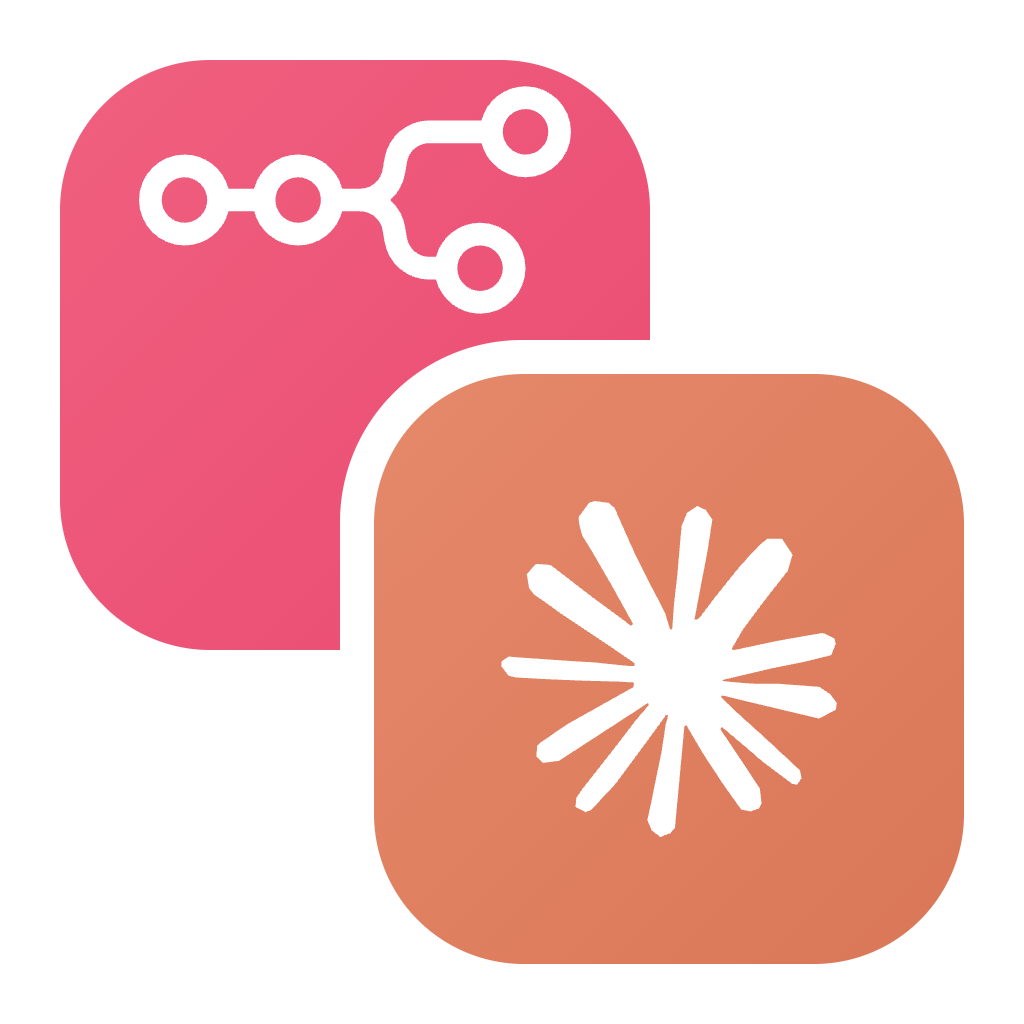
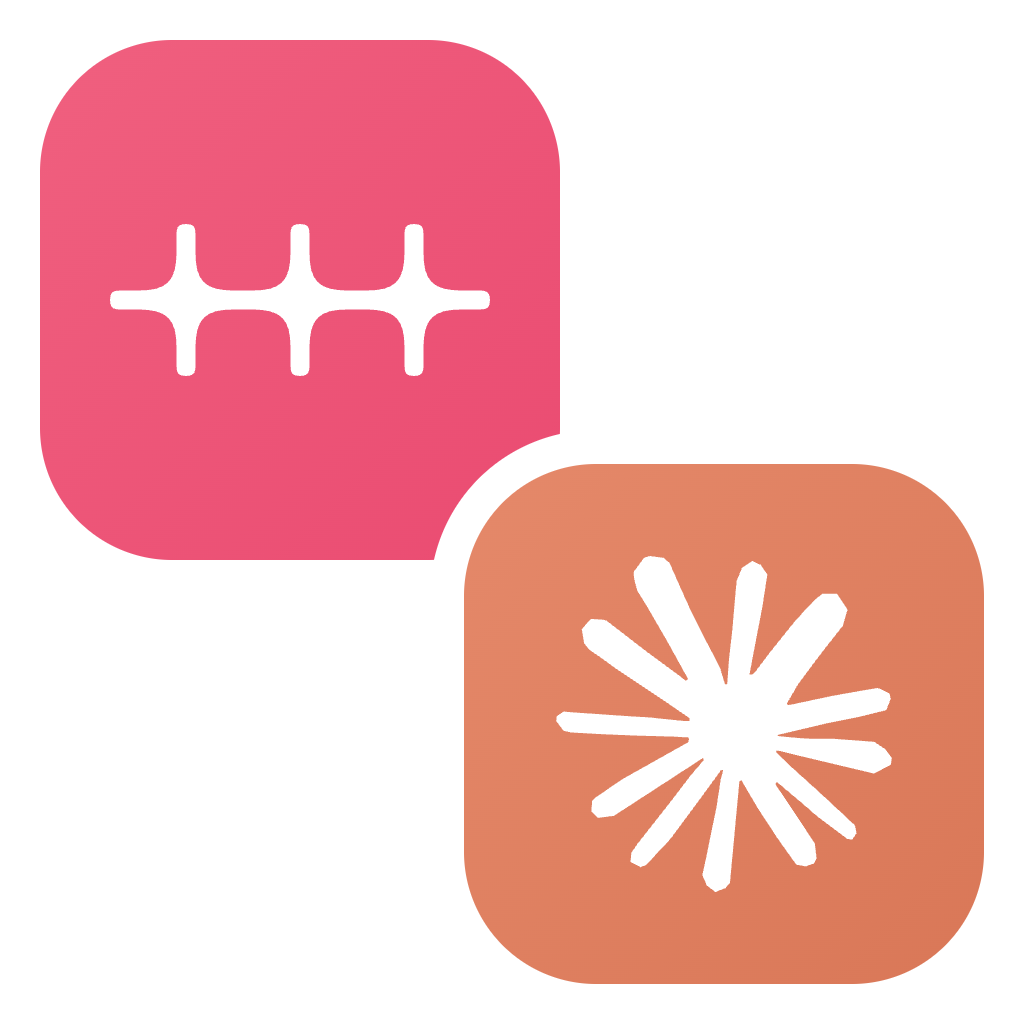
Smoother migration animation; n8n's current mark
assets/mapping.gif (0.40 MiB, 5 s, 25 fps): each n8n workflow's chip glides
along its row into its slot in Claude, turning from a white n8n node into its
filled Claude form on the way (smootherstep easing, no lines drawing, no
bounce); Lucide icons. The n8n mark is now n8n's current one, from its own
repository (assets/src/logos/SOURCE.md), in the GIF and centred in the icon's
pink tile; the tiles overlap only at the corner.

Changed region(s): [[0.0625, 0.0625, 0.9375, 0.9375], [0.5, 0.5, 0.9688, 0.9688], [0.0312, 0.0312, 0.5, 0.5]]

diff --git a/assets/src/mapping.html b/assets/src/mapping.html
@@ -1,140 +1,116 @@
 <!doctype html>
-<!-- Source of assets/mapping.gif (5 s loop): each kind of n8n workflow flies through n8n-to-claude to where it lands in
-     Claude. Frames are drawn by render(t) and assembled by assets/src/gif.mjs; the page also plays by itself.
+<!-- Source of assets/mapping.gif (5 s loop): each kind of n8n workflow migrates from n8n into its place in Claude. Frames
+     are drawn by render(t) and assembled by assets/src/gif.mjs; the page also plays by itself.
      The pairs are the analyzer's verdicts on popular templates of rank 1-100 (evals/bench/data/wf, 2026-11-18):
      schedule every 1 d -> cloud-task (Email summary agent); Gmail poll every 1 min -> local-task (Suggest meeting slots
      using AI); chat -> skill (AI agent chat); form -> artifact-form (Flux AI image generator); manual -> artifact
      (Joining different datasets); Telegram, outsiders wait -> hosted (Telegram AI chatbot); MCP server -> replaced
-     (Build an MCP server with Google Calendar and custom functions). The n8n and Claude marks: assets/src/logos/SOURCE.md;
-     the other icons are drawn here. -->
+     (Build an MCP server with Google Calendar and custom functions).
+     Icons: Lucide (ISC licence, lucide.dev); the n8n and Claude marks: assets/src/logos/SOURCE.md. -->
 <html>
 <head>
 <meta charset="utf-8">
 <style>
-@font-face { font-family: Mono; src: url(fonts/dm-mono-latin-500-normal.woff2); font-weight: 500; }
 @font-face { font-family: Sans; src: url(fonts/dm-sans-latin-500-normal.woff2); font-weight: 500; }
 @font-face { font-family: Display; src: url(fonts/space-grotesk-latin-600-normal.woff2); font-weight: 600; }
-:root { --text: #f4f4f5; --muted: #8b8b94; --n8n: #ea4b71; --claude: #d97757; }
 * { box-sizing: border-box; margin: 0; }
 body { background: #000; }
-#scene { position: relative; width: 960px; height: 540px; background: #07070a; color: var(--text); font-family: Sans; overflow: hidden; }
-.panel { position: absolute; top: 76px; width: 262px; height: 432px; border-radius: 22px; background: #0f0f13; border: 1px solid #222228; box-shadow: inset 0 1px 0 #2a2a31; }
-.panel.n8n { left: 28px; }
-.panel.n8n::after { content: ""; position: absolute; inset: 0; border-radius: 22px; background-image: radial-gradient(#26262c 1px, transparent 1.5px); background-size: 14px 14px; }
-.panel.claude { left: 670px; }
-.pill { position: absolute; top: 26px; height: 36px; padding: 0 15px 0 11px; border-radius: 999px; display: flex; align-items: center; gap: 9px; font-family: Display; font-size: 17px; background: #141418; border: 1px solid #26262c; }
-.pill svg { width: 23px; height: 23px; }
-.node { position: absolute; left: 46px; width: 226px; height: 48px; display: flex; align-items: center; justify-content: flex-end; gap: 12px; font-size: 14.5px; color: #e4e4e7; }
-.chip { width: 48px; height: 48px; border-radius: 13px; background: #f4f4f5; display: grid; place-items: center; position: relative; flex: none; }
-.chip svg { width: 25px; height: 25px; fill: none; stroke-width: 2; stroke-linecap: round; stroke-linejoin: round; }
-.handle { position: absolute; right: -6px; top: 18px; width: 12px; height: 12px; border-radius: 50%; background: #07070a; border: 2px solid #a1a1aa; }
-.tile { position: absolute; left: 688px; width: 226px; height: 48px; border-radius: 14px; display: flex; align-items: center; gap: 12px; padding: 0 10px 0 6px; background: #15151a; border: 1px solid #24242a; font-size: 14.5px; color: #a1a1aa; }
-.tile .sq { width: 36px; height: 36px; border-radius: 10px; display: grid; place-items: center; background: #1c1c21; flex: none; }
-.tile .sq svg { width: 20px; height: 20px; fill: none; stroke: #71717a; stroke-width: 2; stroke-linecap: round; stroke-linejoin: round; }
-.tile .badge { margin-left: auto; width: 20px; height: 20px; border-radius: 50%; display: grid; place-items: center; transform: scale(0); }
-.tile .badge svg { width: 12px; height: 12px; fill: none; stroke: #07070a; stroke-width: 3; stroke-linecap: round; stroke-linejoin: round; }
-#hubwrap { position: absolute; left: 432px; top: 248px; width: 96px; height: 96px; }
-#hub { width: 96px; height: 96px; border-radius: 24px; padding: 12px; background: #16161b; border: 1px solid #2a2a31; box-shadow: 0 0 0 6px #121216; }
-#hub img { width: 100%; height: 100%; display: block; }
-#fx { position: absolute; inset: 0; pointer-events: none; }
+#scene { position: relative; width: 960px; height: 540px; background: #08080b; color: #f4f4f5; font-family: Sans; overflow: hidden; }
+.panel { position: absolute; top: 84px; width: 300px; height: 430px; border-radius: 22px; background: #0f0f13; border: 1px solid #202026; }
+.pill { position: absolute; top: 26px; height: 38px; padding: 0 16px 0 12px; border-radius: 999px; display: flex; align-items: center; gap: 10px; font-family: Display; font-size: 18px; background: #141418; border: 1px solid #25252b; }
+#bridge { position: absolute; left: 444px; top: 22px; width: 72px; height: 46px; display: flex; align-items: center; justify-content: center; }
+#bridge img { width: 46px; height: 46px; }
+.track { position: absolute; height: 2px; background-image: linear-gradient(90deg, #26262c 50%, transparent 50%); background-size: 10px 2px; }
+.row { position: absolute; height: 52px; display: flex; align-items: center; gap: 14px; font-size: 15px; }
+.row.l { left: 40px; width: 240px; flex-direction: row-reverse; justify-content: flex-start; color: #d4d4d8; }
+.row.r { left: 682px; width: 240px; color: #71717a; }
+.chip { width: 52px; height: 52px; border-radius: 15px; display: grid; place-items: center; position: relative; flex: none; }
+.chip svg { width: 24px; height: 24px; fill: none; stroke-width: 2; stroke-linecap: round; stroke-linejoin: round; position: absolute; left: 50%; top: 50%; margin: -12px 0 0 -12px; }
+.n8nchip { background: #f4f4f5; }
+.slot { border: 1.5px dashed #34343c; }
+.slot svg { stroke: #4b4b54; }
+#movers .chip { position: absolute; z-index: 3; }
 </style>
 </head>
 <body>
 <div id="scene">
-  <div class="panel n8n"></div>
-  <div class="panel claude"></div>
-  <div class="pill" style="left:28px"><svg viewBox="0 0 24 24"><path fill="#EA4B71" d="M21.4737 5.6842c-1.1772 0-2.1663.8051-2.4468 1.8947h-2.8955c-1.235 0-2.289.893-2.492 2.111l-.1038.623a1.263 1.263 0 0 1-1.246 1.0555H11.289c-.2805-1.0896-1.2696-1.8947-2.4468-1.8947s-2.1663.8051-2.4467 1.8947H4.973c-.2805-1.0896-1.2696-1.8947-2.4468-1.8947C1.1311 9.4737 0 10.6047 0 12s1.131 2.5263 2.5263 2.5263c1.1772 0 2.1663-.8051 2.4468-1.8947h1.4223c.2804 1.0896 1.2696 1.8947 2.4467 1.8947 1.1772 0 2.1663-.8051 2.4468-1.8947h1.0008a1.263 1.263 0 0 1 1.2459 1.0555l.1038.623c.203 1.218 1.257 2.111 2.492 2.111h.3692c.2804 1.0895 1.2696 1.8947 2.4468 1.8947 1.3952 0 2.5263-1.131 2.5263-2.5263s-1.131-2.5263-2.5263-2.5263c-1.1772 0-2.1664.805-2.4468 1.8947h-.3692a1.263 1.263 0 0 1-1.246-1.0555l-.1037-.623A2.52 2.52 0 0 0 13.9607 12a2.52 2.52 0 0 0 .821-1.4794l.1038-.623a1.263 1.263 0 0 1 1.2459-1.0555h2.8955c.2805 1.0896 1.2696 1.8947 2.4468 1.8947 1.3952 0 2.5263-1.131 2.5263-2.5263s-1.131-2.5263-2.5263-2.5263m0 1.2632a1.263 1.263 0 0 1 1.2631 1.2631 1.263 1.263 0 0 1-1.2631 1.2632 1.263 1.263 0 0 1-1.2632-1.2632 1.263 1.263 0 0 1 1.2632-1.2631M2.5263 10.7368A1.263 1.263 0 0 1 3.7895 12a1.263 1.263 0 0 1-1.2632 1.2632A1.263 1.263 0 0 1 1.2632 12a1.263 1.263 0 0 1 1.2631-1.2632m6.3158 0A1.263 1.263 0 0 1 10.1053 12a1.263 1.263 0 0 1-1.2632 1.2632A1.263 1.263 0 0 1 7.579 12a1.263 1.263 0 0 1 1.2632-1.2632m10.1053 3.7895a1.263 1.263 0 0 1 1.2631 1.2632 1.263 1.263 0 0 1-1.2631 1.2631 1.263 1.263 0 0 1-1.2632-1.2631 1.263 1.263 0 0 1 1.2632-1.2632"/></svg>n8n</div>
-  <div class="pill" style="left:670px"><svg viewBox="0 0 24 24"><path fill="#D97757" d="m4.7144 15.9555 4.7174-2.6471.079-.2307-.079-.1275h-.2307l-.7893-.0486-2.6956-.0729-2.3375-.0971-2.2646-.1214-.5707-.1215-.5343-.7042.0546-.3522.4797-.3218.686.0608 1.5179.1032 2.2767.1578 1.6514.0972 2.4468.255h.3886l.0546-.1579-.1336-.0971-.1032-.0972L6.973 9.8356l-2.55-1.6879-1.3356-.9714-.7225-.4918-.3643-.4614-.1578-1.0078.6557-.7225.8803.0607.2246.0607.8925.686 1.9064 1.4754 2.4893 1.8336.3643.3035.1457-.1032.0182-.0728-.164-.2733-1.3539-2.4467-1.445-2.4893-.6435-1.032-.17-.6194c-.0607-.255-.1032-.4674-.1032-.7285L6.287.1335 6.6997 0l.9957.1336.419.3642.6192 1.4147 1.0018 2.2282 1.5543 3.0296.4553.8985.2429.8318.091.255h.1579v-.1457l.1275-1.706.2368-2.0947.2307-2.6957.0789-.7589.3764-.9107.7468-.4918.5828.2793.4797.686-.0668.4433-.2853 1.8517-.5586 2.9021-.3643 1.9429h.2125l.2429-.2429.9835-1.3053 1.6514-2.0643.7286-.8196.85-.9046.5464-.4311h1.0321l.759 1.1293-.34 1.1657-1.0625 1.3478-.8804 1.1414-1.2628 1.7-.7893 1.36.0729.1093.1882-.0183 2.8535-.607 1.5421-.2794 1.8396-.3157.8318.3886.091.3946-.3278.8075-1.967.4857-2.3072.4614-3.4364.8136-.0425.0304.0486.0607 1.5482.1457.6618.0364h1.621l3.0175.2247.7892.522.4736.6376-.079.4857-1.2142.6193-1.6393-.3886-3.825-.9107-1.3113-.3279h-.1822v.1093l1.0929 1.0686 2.0035 1.8092 2.5075 2.3314.1275.5768-.3218.4554-.34-.0486-2.2039-1.6575-.85-.7468-1.9246-1.621h-.1275v.17l.4432.6496 2.3436 3.5214.1214 1.0807-.17.3521-.6071.2125-.6679-.1214-1.3721-1.9246L14.38 17.959l-1.1414-1.9428-.1397.079-.674 7.2552-.3156.3703-.7286.2793-.6071-.4614-.3218-.7468.3218-1.4753.3886-1.9246.3157-1.53.2853-1.9004.17-.6314-.0121-.0425-.1397.0182-1.4328 1.9672-2.1796 2.9446-1.7243 1.8456-.4128.164-.7164-.3704.0667-.6618.4008-.5889 2.386-3.0357 1.4389-1.882.929-1.0868-.0062-.1579h-.0546l-6.3385 4.1164-1.1293.1457-.4857-.4554.0608-.7467.2307-.2429 1.9064-1.3114Z"/></svg>Claude</div>
-  <svg id="fx" width="960" height="540"><defs id="defs"></defs><g id="guides"></g><g id="lines"></g><g id="rings"></g><g id="comets"></g></svg>
-  <div id="hubwrap"><div id="hub"><img src="../icon.svg" alt=""></div></div>
-  <div id="nodes"></div>
-  <div id="tiles"></div>
+  <div class="panel" style="left:22px"></div>
+  <div class="panel" style="left:638px"></div>
+  <div class="pill" style="left:22px"><svg viewBox="0 0 240 96" width="34" height="14"><path fill="#EA4B71" d="M48 96C52.5 96 54 94.5 54 90V78C54 60 60 54 78 54H90C108 54 114 60 114 78V90C114 94.5 115.5 96 120 96C124.5 96 126 94.5 126 90V78C126 60 132 54 150 54H162C180 54 186 60 186 78V90C186 94.5 187.5 96 192 96C196.5 96 198 94.5 198 90V78C198 60 204 54 222 54H234C238.5 54 240 52.5 240 48C240 43.5 238.5 42 234 42H222C204 42 198 36 198 18V6C198 1.5 196.5 0 192 0C187.5 0 186 1.5 186 6V18C186 36 180 42 162 42H150C132 42 126 36 126 18V6C126 1.5 124.5 0 120 0C115.5 0 114 1.5 114 6V18C114 36 108 42 90 42H78C60 42 54 36 54 18V6C54 1.5 52.5 0 48 0C43.5 0 42 1.5 42 6V18C42 36 36 42 18 42H6C1.5 42 0 43.5 0 48C0 52.5 1.5 54 6 54H18C36 54 42 60 42 78V90C42 94.5 43.5 96 48 96Z"/></svg>n8n</div>
+  <div class="pill" style="left:638px"><svg viewBox="0 0 24 24" width="22" height="22"><path fill="#D97757" d="m4.7144 15.9555 4.7174-2.6471.079-.2307-.079-.1275h-.2307l-.7893-.0486-2.6956-.0729-2.3375-.0971-2.2646-.1214-.5707-.1215-.5343-.7042.0546-.3522.4797-.3218.686.0608 1.5179.1032 2.2767.1578 1.6514.0972 2.4468.255h.3886l.0546-.1579-.1336-.0971-.1032-.0972L6.973 9.8356l-2.55-1.6879-1.3356-.9714-.7225-.4918-.3643-.4614-.1578-1.0078.6557-.7225.8803.0607.2246.0607.8925.686 1.9064 1.4754 2.4893 1.8336.3643.3035.1457-.1032.0182-.0728-.164-.2733-1.3539-2.4467-1.445-2.4893-.6435-1.032-.17-.6194c-.0607-.255-.1032-.4674-.1032-.7285L6.287.1335 6.6997 0l.9957.1336.419.3642.6192 1.4147 1.0018 2.2282 1.5543 3.0296.4553.8985.2429.8318.091.255h.1579v-.1457l.1275-1.706.2368-2.0947.2307-2.6957.0789-.7589.3764-.9107.7468-.4918.5828.2793.4797.686-.0668.4433-.2853 1.8517-.5586 2.9021-.3643 1.9429h.2125l.2429-.2429.9835-1.3053 1.6514-2.0643.7286-.8196.85-.9046.5464-.4311h1.0321l.759 1.1293-.34 1.1657-1.0625 1.3478-.8804 1.1414-1.2628 1.7-.7893 1.36.0729.1093.1882-.0183 2.8535-.607 1.5421-.2794 1.8396-.3157.8318.3886.091.3946-.3278.8075-1.967.4857-2.3072.4614-3.4364.8136-.0425.0304.0486.0607 1.5482.1457.6618.0364h1.621l3.0175.2247.7892.522.4736.6376-.079.4857-1.2142.6193-1.6393-.3886-3.825-.9107-1.3113-.3279h-.1822v.1093l1.0929 1.0686 2.0035 1.8092 2.5075 2.3314.1275.5768-.3218.4554-.34-.0486-2.2039-1.6575-.85-.7468-1.9246-1.621h-.1275v.17l.4432.6496 2.3436 3.5214.1214 1.0807-.17.3521-.6071.2125-.6679-.1214-1.3721-1.9246L14.38 17.959l-1.1414-1.9428-.1397.079-.674 7.2552-.3156.3703-.7286.2793-.6071-.4614-.3218-.7468.3218-1.4753.3886-1.9246.3157-1.53.2853-1.9004.17-.6314-.0121-.0425-.1397.0182-1.4328 1.9672-2.1796 2.9446-1.7243 1.8456-.4128.164-.7164-.3704.0667-.6618.4008-.5889 2.386-3.0357 1.4389-1.882.929-1.0868-.0062-.1579h-.0546l-6.3385 4.1164-1.1293.1457-.4857-.4554.0608-.7467.2307-.2429 1.9064-1.3114Z"/></svg>Claude</div>
+  <div id="bridge"><img src="../icon.svg" alt=""></div>
+  <div id="tracks"></div>
+  <div id="left"></div>
+  <div id="right"></div>
+  <div id="movers"></div>
 </div>
 <script>
-const I = {
-  clock: '<circle cx="12" cy="12" r="9"/><path d="M12 7v5l3 2"/>',
-  mail: '<rect x="3" y="5" width="18" height="14" rx="2.5"/><path d="M3.5 7l8.5 6 8.5-6"/>',
-  chat: '<path d="M4 6a2 2 0 0 1 2-2h12a2 2 0 0 1 2 2v8a2 2 0 0 1-2 2H9l-5 4z"/>',
-  form: '<rect x="4" y="3" width="16" height="18" rx="2.5"/><path d="M8 8h8M8 12h8M8 16h5"/>',
-  play: '<circle cx="12" cy="12" r="9"/><path d="M10 8.5l5 3.5-5 3.5z"/>',
-  send: '<path d="M21 3L3 10.5l7 2.5 2.5 7z"/><path d="M10 13l11-10"/>',
-  plug: '<path d="M9 3v5M15 3v5M6 8h12v3a6 6 0 0 1-12 0zM12 17v4"/>',
-  cloud: '<path d="M7 18a4.5 4.5 0 0 1-.5-9A6 6 0 0 1 18 9.5a4 4 0 0 1-1 8.5z"/>',
-  monitor: '<rect x="3" y="4" width="18" height="12" rx="2"/><path d="M9 20h6M12 16v4"/>',
-  spark: '<path d="M12 3l2 5.5L19.5 10 14 12l-2 6-2-6-5.5-2L10 8.5z"/>',
-  page: '<rect x="3" y="4" width="18" height="16" rx="2"/><path d="M3 9h18M7 13h4M7 16h7"/>',
-  bars: '<rect x="3" y="4" width="18" height="16" rx="2"/><path d="M8 16v-4M12 16V8M16 16v-6"/>',
-  server: '<rect x="4" y="4" width="16" height="6" rx="1.5"/><rect x="4" y="14" width="16" height="6" rx="1.5"/><path d="M8 7h.01M8 17h.01"/>',
-  link: '<path d="M10 14a4 4 0 0 0 5.6 0l3-3a4 4 0 0 0-5.6-5.6l-1 1M14 10a4 4 0 0 0-5.6 0l-3 3a4 4 0 0 0 5.6 5.6l1-1"/>',
-  check: '<path d="M5 12.5l4.5 4.5L19 7.5"/>',
+const L = {
+  clock: '<circle cx="12" cy="12" r="10"/><polyline points="12 6 12 12 16 14"/>',
+  mail: '<rect width="20" height="16" x="2" y="4" rx="2"/><path d="m22 7-8.97 5.7a1.94 1.94 0 0 1-2.06 0L2 7"/>',
+  chat: '<path d="M7.9 20A9 9 0 1 0 4 16.1L2 22Z"/>',
+  form: '<path d="M15 2H6a2 2 0 0 0-2 2v16a2 2 0 0 0 2 2h12a2 2 0 0 0 2-2V7Z"/><path d="M14 2v4a2 2 0 0 0 2 2h4"/><path d="M16 13H8"/><path d="M16 17H8"/><path d="M10 9H8"/>',
+  play: '<circle cx="12" cy="12" r="10"/><polygon points="10 8 16 12 10 16 10 8"/>',
+  send: '<path d="m22 2-7 20-4-9-9-4Z"/><path d="M22 2 11 13"/>',
+  plug: '<path d="M12 22v-5"/><path d="M9 8V2"/><path d="M15 8V2"/><path d="M18 8v5a4 4 0 0 1-4 4h-4a4 4 0 0 1-4-4V8Z"/>',
+  cloud: '<path d="M17.5 19H9a7 7 0 1 1 6.71-9h1.79a4.5 4.5 0 1 1 0 9Z"/>',
+  monitor: '<rect width="20" height="14" x="2" y="3" rx="2"/><line x1="8" x2="16" y1="21" y2="21"/><line x1="12" x2="12" y1="17" y2="21"/>',
+  sparkles: '<path d="M9.94 15.5A2 2 0 0 0 8.5 14.06l-6.14-1.58a.5.5 0 0 1 0-.96L8.5 9.94A2 2 0 0 0 9.94 8.5l1.58-6.14a.5.5 0 0 1 .96 0L14.06 8.5A2 2 0 0 0 15.5 9.94l6.14 1.58a.5.5 0 0 1 0 .96L15.5 14.06a2 2 0 0 0-1.44 1.44l-1.58 6.14a.5.5 0 0 1-.96 0z"/>',
+  window: '<rect x="2" y="4" width="20" height="16" rx="2"/><path d="M2 9h20"/><path d="M7 13h5"/><path d="M7 16h8"/>',
+  chart: '<path d="M3 3v16a2 2 0 0 0 2 2h16"/><path d="M18 17V9"/><path d="M13 17V5"/><path d="M8 17v-3"/>',
+  server: '<rect width="20" height="8" x="2" y="2" rx="2"/><rect width="20" height="8" x="2" y="14" rx="2"/><line x1="6" x2="6.01" y1="6" y2="6"/><line x1="6" x2="6.01" y1="18" y2="18"/>',
+  link: '<path d="M10 13a5 5 0 0 0 7.54.54l3-3a5 5 0 0 0-7.07-7.07l-1.72 1.71"/><path d="M14 11a5 5 0 0 0-7.54-.54l-3 3a5 5 0 0 0 7.07 7.07l1.71-1.71"/>',
 };
-// from: [icon, label, glyph colour]; to: [icon, label]; tone: verdict colour.
 const ROWS = [
-  { from: ["clock", "Schedule", "#f97316"], to: ["cloud", "Cloud task"], tone: "ok" },
-  { from: ["mail", "Gmail poll", "#ef4444"], to: ["monitor", "Desktop task"], tone: "ok" },
-  { from: ["chat", "Chat", "#8b5cf6"], to: ["spark", "Skill"], tone: "ok" },
-  { from: ["form", "Form", "#14b8a6"], to: ["page", "Artifact form"], tone: "ok" },
-  { from: ["play", "Manual run", "#52525b"], to: ["bars", "Run now page"], tone: "ok" },
-  { from: ["send", "Telegram bot", "#0ea5e9"], to: ["server", "Needs hosting"], tone: "warn" },
-  { from: ["plug", "MCP server", "#6366f1"], to: ["link", "Connectors"], tone: "info" },
+  { from: ["clock", "Schedule", [249, 115, 22]], to: ["cloud", "Cloud task"], tone: "ok" },
+  { from: ["mail", "Gmail poll", [239, 68, 68]], to: ["monitor", "Desktop task"], tone: "ok" },
+  { from: ["chat", "Chat", [139, 92, 246]], to: ["sparkles", "Skill"], tone: "ok" },
+  { from: ["form", "Form", [20, 184, 166]], to: ["window", "Artifact form"], tone: "ok" },
+  { from: ["play", "Manual run", [82, 82, 91]], to: ["chart", "Run now page"], tone: "ok" },
+  { from: ["send", "Telegram bot", [14, 165, 233]], to: ["server", "Needs hosting"], tone: "warn" },
+  { from: ["plug", "MCP server", [99, 102, 241]], to: ["link", "Connectors"], tone: "info" },
 ];
-const C = { ok: [52, 211, 153], warn: [251, 191, 36], info: [96, 165, 250] };
-const N8N = [234, 75, 113];
+const TONE = { ok: [16, 185, 129], warn: [245, 158, 11], info: [59, 130, 246] };
+const WHITE = [244, 244, 245];
 const rgb = (c, a = 1) => `rgb(${c[0]} ${c[1]} ${c[2]} / ${a})`;
-const Y = (i) => 112 + i * 56, HX = 480, HY = 296, X1 = 278, X2 = 688;
-const icon = (k, stroke) => `<svg viewBox="0 0 24 24" style="${stroke ? `stroke:${stroke}` : ""}">${I[k]}</svg>`;
-document.getElementById("nodes").innerHTML = ROWS.map((r, i) => `<div class="node" style="top:${Y(i)}px">${r.from[1]}<div class="chip">${icon(r.from[0], r.from[2])}<i class="handle"></i></div></div>`).join("");
-document.getElementById("tiles").innerHTML = ROWS.map((r, i) => `<div class="tile" id="t${i}" style="top:${Y(i)}px"><div class="sq">${icon(r.to[0])}</div><span>${r.to[1]}</span><div class="badge" style="background:${rgb(C[r.tone])}">${r.tone === "warn" ? '<b style="color:#07070a;font:700 13px/1 Sans">!</b>' : icon("check")}</div></div>`).join("");
-const d = (i) => { const y = Y(i) + 24; return `M${X1} ${y} C ${375} ${y}, ${395} ${HY}, ${HX} ${HY} C ${565} ${HY}, ${590} ${y}, ${X2} ${y}`; };
-const ns = "http://www.w3.org/2000/svg";
-document.getElementById("defs").innerHTML = ROWS.map((r, i) => `<linearGradient id="g${i}" gradientUnits="userSpaceOnUse" x1="${X1}" y1="0" x2="${X2}" y2="0"><stop offset="0" stop-color="${rgb(N8N)}"/><stop offset="0.5" stop-color="#e8e8ef"/><stop offset="1" stop-color="${rgb(C[r.tone])}"/></linearGradient>`).join("");
-document.getElementById("guides").innerHTML = ROWS.map((_, i) => `<path d="${d(i)}" fill="none" stroke="rgb(255 255 255 / 0.07)" stroke-width="1.5" stroke-dasharray="3 5"/>`).join("");
-document.getElementById("lines").innerHTML = ROWS.map((_, i) => `<path id="p${i}" d="${d(i)}" fill="none" stroke="url(#g${i})" stroke-width="2.4" stroke-linecap="round"/>`).join("");
-const TAIL = 16;
-document.getElementById("comets").innerHTML = ROWS.map((r, i) => Array.from({ length: TAIL }, (_, j) => `<circle id="c${i}_${j}" r="${6 - j * 0.32}" fill="${j === 0 ? "#ffffff" : rgb(C[r.tone], 0.8 - j * 0.048)}"/>`).join("")).join("");
-document.getElementById("rings").innerHTML = ROWS.map((r, i) => `<circle id="hr${i}" cx="${HX}" cy="${HY}" fill="none" stroke-width="2"/><circle id="lr${i}" cx="${X2 + 24}" cy="${Y(i) + 24}" fill="none" stroke-width="2"/>`).join("");
-const LEN = ROWS.map((_, i) => document.getElementById(`p${i}`).getTotalLength());
+const mix = (a, b, k) => a.map((v, i) => Math.round(v + (b[i] - v) * k));
+const svg = (k, stroke, op = 1) => `<svg viewBox="0 0 24 24" style="stroke:${stroke};opacity:${op}">${L[k]}</svg>`;
+const Y = (i) => 108 + i * 57, LCX = 228, RCX = 682;
+document.getElementById("tracks").innerHTML = ROWS.map((_, i) => `<div class="track" style="left:${LCX + 64}px;width:${RCX - LCX - 76}px;top:${Y(i) + 25}px"></div>`).join("");
+document.getElementById("left").innerHTML = ROWS.map((r, i) => `<div class="row l" style="top:${Y(i)}px"><div class="chip n8nchip" id="lc${i}">${svg(r.from[0], rgb(r.from[2]))}</div><span id="ll${i}">${r.from[1]}</span></div>`).join("");
+document.getElementById("right").innerHTML = ROWS.map((r, i) => `<div class="row r" style="top:${Y(i)}px"><div class="chip slot" id="rc${i}">${svg(r.to[0], "#4b4b54")}</div><span id="rl${i}">${r.to[1]}</span></div>`).join("");
+document.getElementById("movers").innerHTML = ROWS.map((r, i) => `<div class="chip" id="m${i}"><span class="a">${svg(r.from[0], rgb(r.from[2]))}</span><span class="b">${svg(r.to[0], "#ffffff", 0)}</span></div>`).join("");
 
-const DURATION = 5, START = 0.25, GAP = 0.28, FLY = 0.95, FADE_AT = 4.5;
+const DURATION = 5, START = 0.35, GAP = 0.3, TRAVEL = 1.5, BACK = 4.45;
 const clamp = (x) => Math.max(0, Math.min(1, x));
-const easeIO = (x) => (x < 0.5 ? 4 * x * x * x : 1 - Math.pow(-2 * x + 2, 3) / 2);
-const back = (x) => { const c = 2.2; return 1 + (c + 1) * Math.pow(x - 1, 3) + c * Math.pow(x - 1, 2); };
+const smooth = (x) => x * x * x * (x * (x * 6 - 15) + 10); // smootherstep: no overshoot, no jerk
 window.render = (t) => {
-  const out = clamp((t - FADE_AT) / (DURATION - FADE_AT));
-  let pulse = 0;
+  const back = smooth(clamp((t - BACK) / (DURATION - BACK))); // quietly return to the start for the loop
   ROWS.forEach((r, i) => {
-    const s = START + i * GAP, k = clamp((t - s) / FLY), e = easeIO(k);
-    const p = document.getElementById(`p${i}`);
-    p.style.strokeDasharray = LEN[i];
-    p.style.strokeDashoffset = LEN[i] * (1 - e);
-    p.style.opacity = (k > 0 ? 0.85 : 0) * (1 - out);
-    const flying = k > 0 && k < 1;
-    for (let j = 0; j < TAIL; j++) {
-      const c = document.getElementById(`c${i}_${j}`);
-      const at = e - j * 0.0075;
-      if (!flying || at <= 0) { c.style.display = "none"; continue; }
-      const pt = p.getPointAtLength(LEN[i] * at);
-      c.style.display = ""; c.setAttribute("cx", pt.x); c.setAttribute("cy", pt.y);
+    const k = clamp((t - START - i * GAP) / TRAVEL), e = smooth(k);
+    const m = document.getElementById(`m${i}`), lc = document.getElementById(`lc${i}`), rc = document.getElementById(`rc${i}`);
+    const ll = document.getElementById(`ll${i}`), rl = document.getElementById(`rl${i}`);
+    const arrived = k >= 1;
+    // the travelling chip: glides on a shallow arc and turns from its n8n form into its Claude form on the way
+    const flying = k > 0 && !arrived;
+    m.style.display = flying ? "grid" : "none";
+    if (flying) {
+      const x = LCX + (RCX - LCX) * e, y = Y(i) - Math.sin(Math.PI * e) * 14;
+      m.style.left = `${x}px`; m.style.top = `${y}px`;
+      const c = smooth(clamp((e - 0.25) / 0.5));
+      m.style.background = rgb(mix(WHITE, TONE[r.tone], c));
+      m.querySelector(".a svg").style.opacity = 1 - c;
+      m.querySelector(".b svg").style.opacity = c;
     }
-    // a ring leaves the hub as the comet passes it, another where it lands
-    const hr = document.getElementById(`hr${i}`), hk = clamp((t - (s + FLY * 0.5)) / 0.55);
-    hr.setAttribute("r", 50 + 46 * easeIO(hk)); hr.setAttribute("stroke", rgb(C[r.tone], hk > 0 && hk < 1 ? 0.6 * (1 - hk) : 0));
-    if (flying) pulse = Math.max(pulse, 1 - Math.min(1, Math.abs(e - 0.5) * 5));
-    const land = clamp((t - (s + FLY)) / 0.35);
-    const lr = document.getElementById(`lr${i}`);
-    lr.setAttribute("r", 20 + 22 * easeIO(land)); lr.setAttribute("stroke", rgb(C[r.tone], land > 0 && land < 1 ? 0.7 * (1 - land) : 0));
-    const tile = document.getElementById(`t${i}`), sq = tile.querySelector(".sq"), badge = tile.querySelector(".badge");
-    const on = (land > 0 ? 1 : 0) * (1 - out);
-    tile.style.borderColor = on ? rgb(C[r.tone], 0.45 * on) : "";
-    tile.style.background = on ? rgb(C[r.tone], 0.12 * on) : "";
-    tile.style.color = on ? `rgb(244 244 245 / ${0.6 + 0.4 * on})` : "";
-    tile.style.transform = land > 0 && land < 1 ? `scale(${1 + 0.05 * Math.sin(Math.PI * land)})` : "";
-    sq.style.background = on ? rgb(C[r.tone], 0.95 * on) : "";
-    sq.querySelector("svg").style.stroke = on ? "#07070a" : "";
-    badge.style.transform = `scale(${land > 0 ? back(clamp(land * 1.2)) * (1 - out) : 0})`;
+    // what it leaves behind, and the slot it settles into
+    const gone = k > 0 ? 1 - back : 0;
+    lc.style.opacity = 1 - 0.75 * gone; ll.style.opacity = 1 - 0.6 * gone;
+    const fill = arrived ? 1 - back : 0;
+    rc.style.background = fill ? rgb(TONE[r.tone], fill) : "";
+    rc.style.borderColor = fill ? rgb(TONE[r.tone], fill) : "";
+    rc.querySelector("svg").style.stroke = fill ? rgb(mix([75, 75, 84], [255, 255, 255], fill)) : "";
+    rl.style.color = rgb(mix([113, 113, 122], [244, 244, 245], fill));
   });
-  document.getElementById("hubwrap").style.transform = `scale(${1 + 0.07 * pulse})`;
-  document.getElementById("hub").style.boxShadow = `0 0 0 6px #121216, 0 0 0 ${7 + 3 * pulse}px rgb(234 75 113 / ${0.15 + 0.5 * pulse})`;
 };
 window.DURATION = DURATION;
 if (!window.__frames) {

diff --git a/README.md b/README.md
@@ -83,7 +83,7 @@ Code _"convert my n8n workflows in n8n-to-claude/exports"_.
 
 <!-- assets/mapping.gif from assets/src/mapping.html (assets/src/gif.mjs); real verdicts, sources in its top comment. -->
 <p align="center">
-  <img src="assets/mapping.gif" width="100%" alt="Animation, 5 seconds, between the n8n and Claude logos: seven kinds of n8n workflow fly through n8n-to-claude to where they run in Claude. Schedule to a cloud task, Gmail poll to a Desktop task, chat to a skill, form to an artifact form, manual to a Run now page, a Telegram bot that outsiders message to needs hosting, an MCP server to Claude's connectors.">
+  <img src="assets/mapping.gif" width="100%" alt="Animation, 5 seconds: seven n8n workflows glide one by one from the n8n panel into their places in the Claude panel, each turning from an n8n node into its Claude form on the way. Schedule becomes a cloud task, Gmail poll a Desktop task, chat a skill, form an artifact form, manual run a Run now page; a Telegram bot that outsiders message lands on needs hosting, and an MCP server on Claude's connectors.">
 </p>
 
 What wakes a workflow and who waits on it decide where it runs. A caller who

diff --git a/assets/src/logos/SOURCE.md b/assets/src/logos/SOURCE.md
@@ -1,5 +1,7 @@
-`n8n.svg` and `claude.svg`: Simple Icons 13.21.0 (cdn.jsdelivr.net/npm/simple-icons@13.21.0/icons/), brand colours
-#EA4B71 and #D97757 from its data file. The icon data is CC0; the marks are trademarks of n8n GmbH and Anthropic, used
+`n8n.svg`: n8n's current mark, from n8n's own repository (n8n-io/n8n,
+packages/frontend/@n8n/design-system/src/components/N8nLogo/logo-icon.svg, fetched 2026-11-19; viewBox 240 x 96).
+`claude.svg`: Simple Icons 13.21.0 (cdn.jsdelivr.net/npm/simple-icons@13.21.0/icons/). Brand colours #EA4B71 and
+#D97757 from Simple Icons' data file. Simple Icons' data is CC0; the marks are trademarks of n8n GmbH and Anthropic, used
 only to name the two products in `assets/mapping.gif`.
 
 `assets/icon.svg` (the project icon, `.claude-plugin/icon.png`) also uses both marks, in white on n8n pink and Claude
